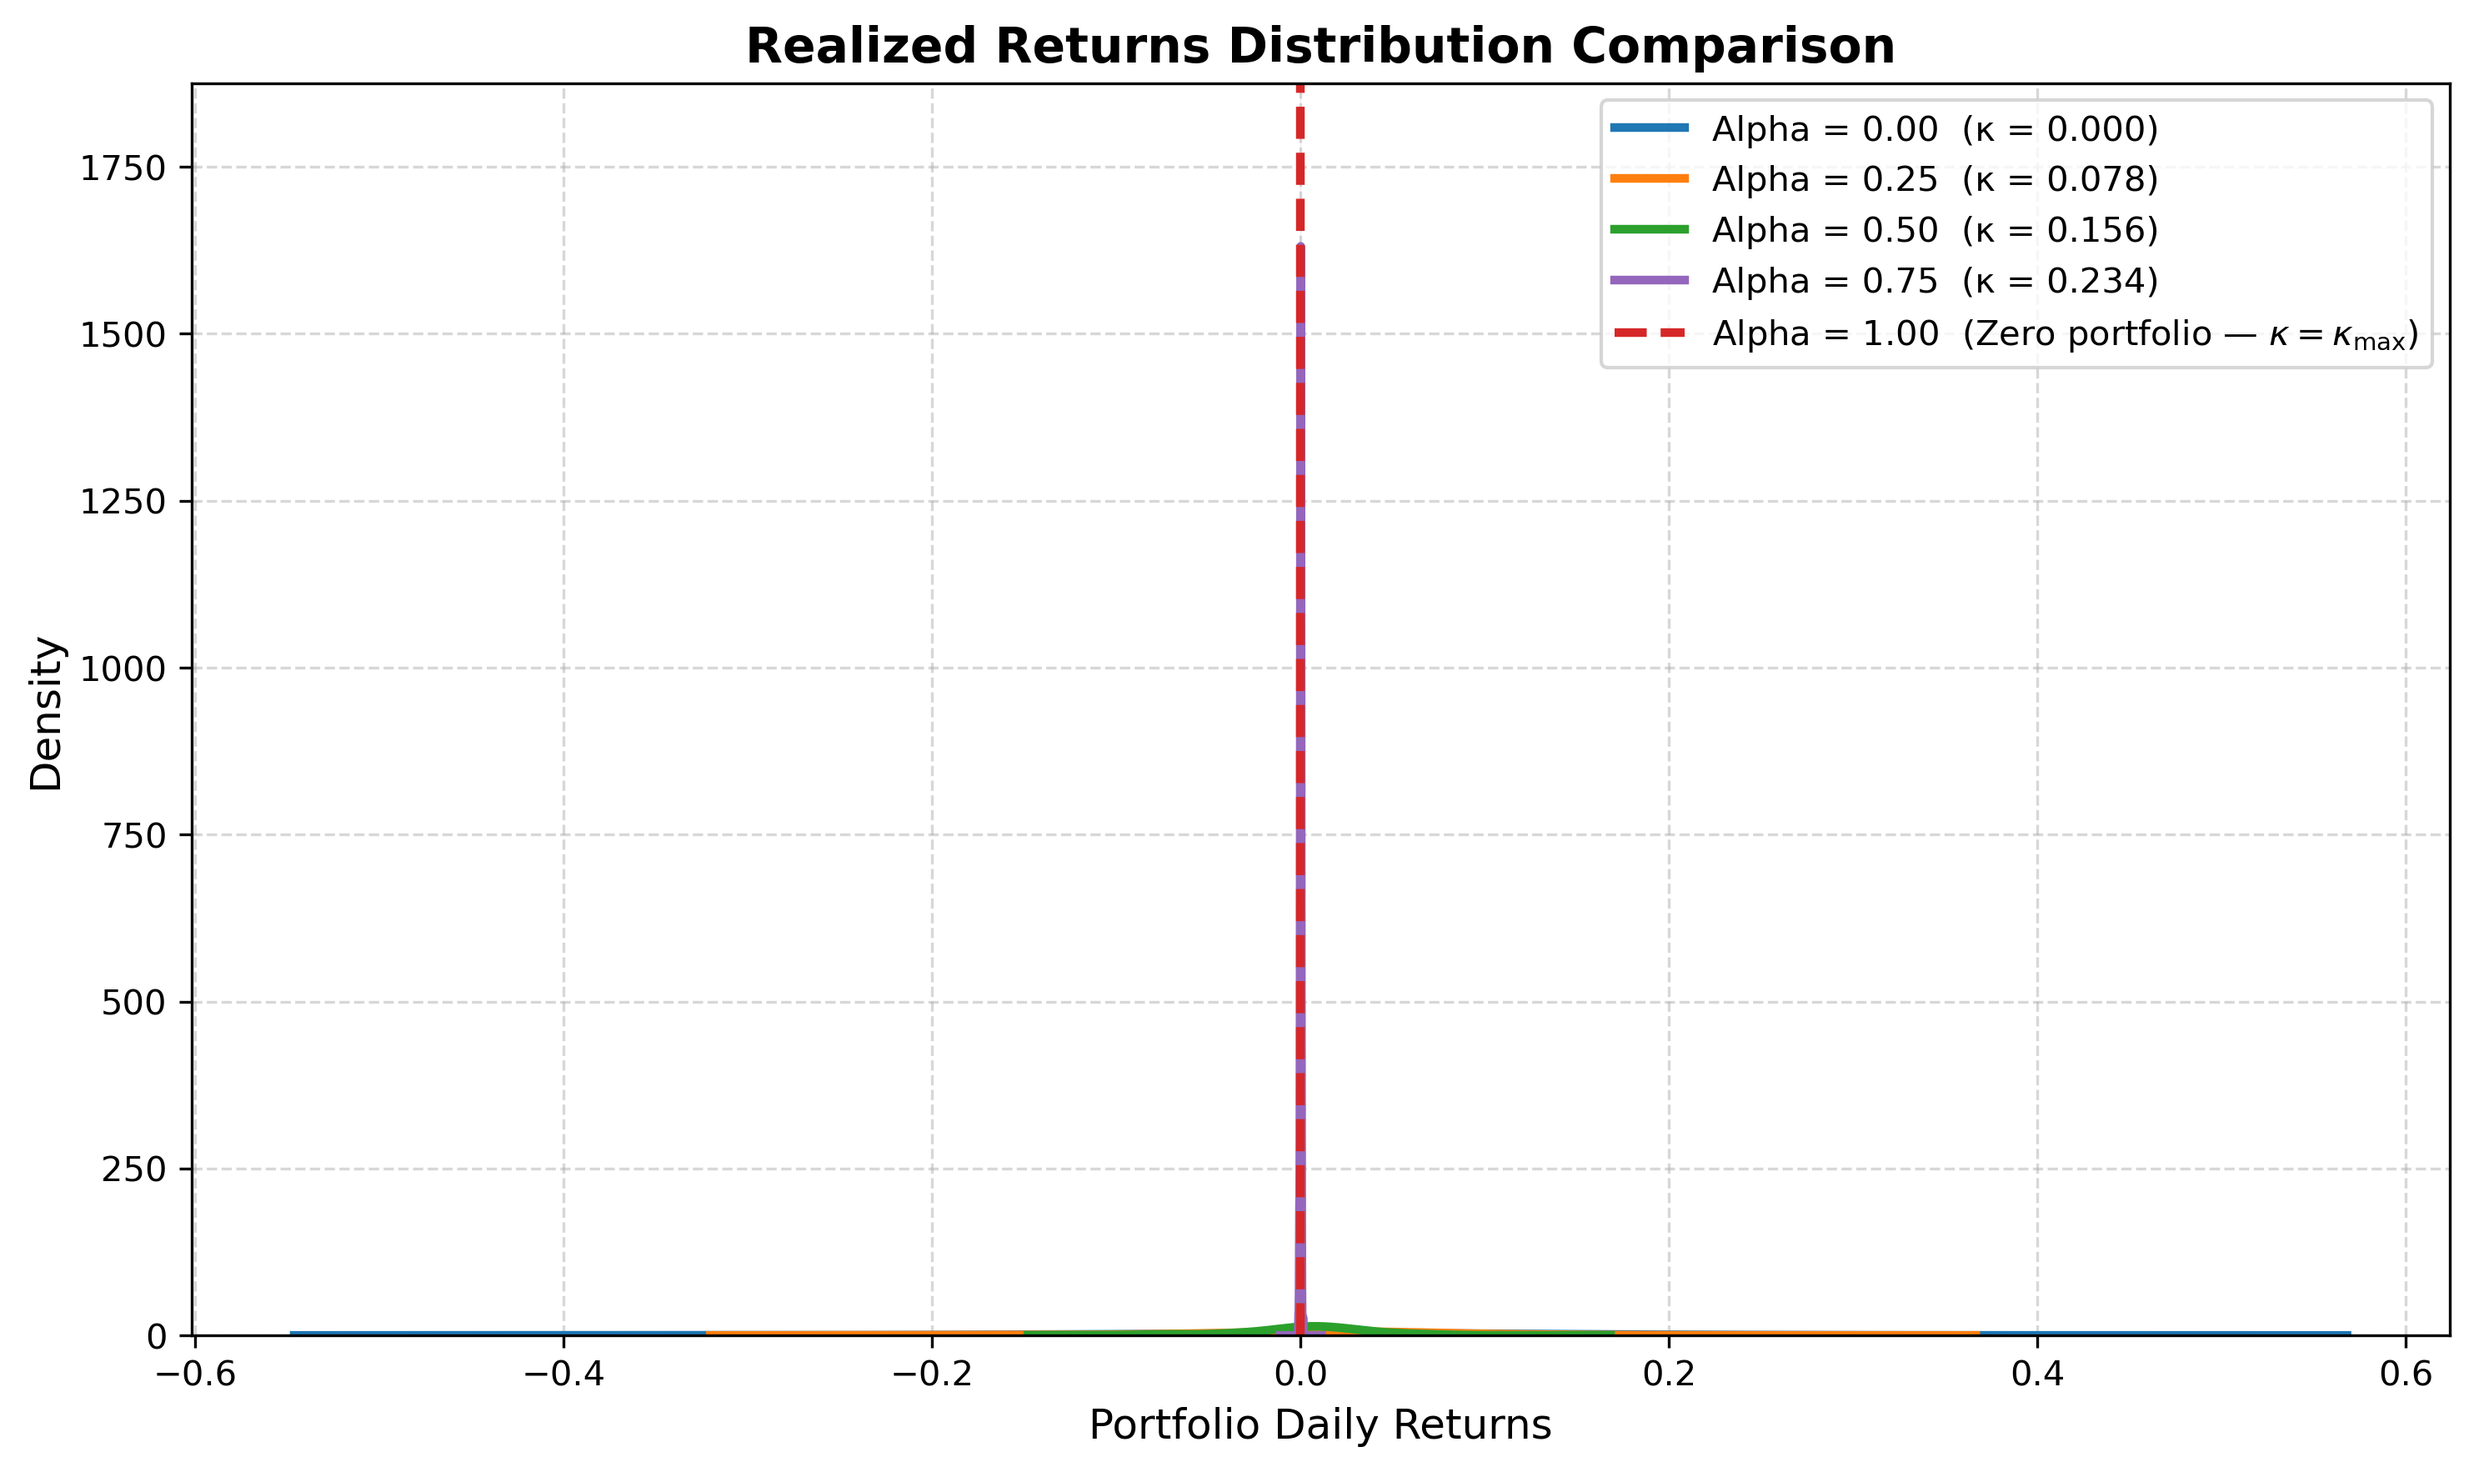
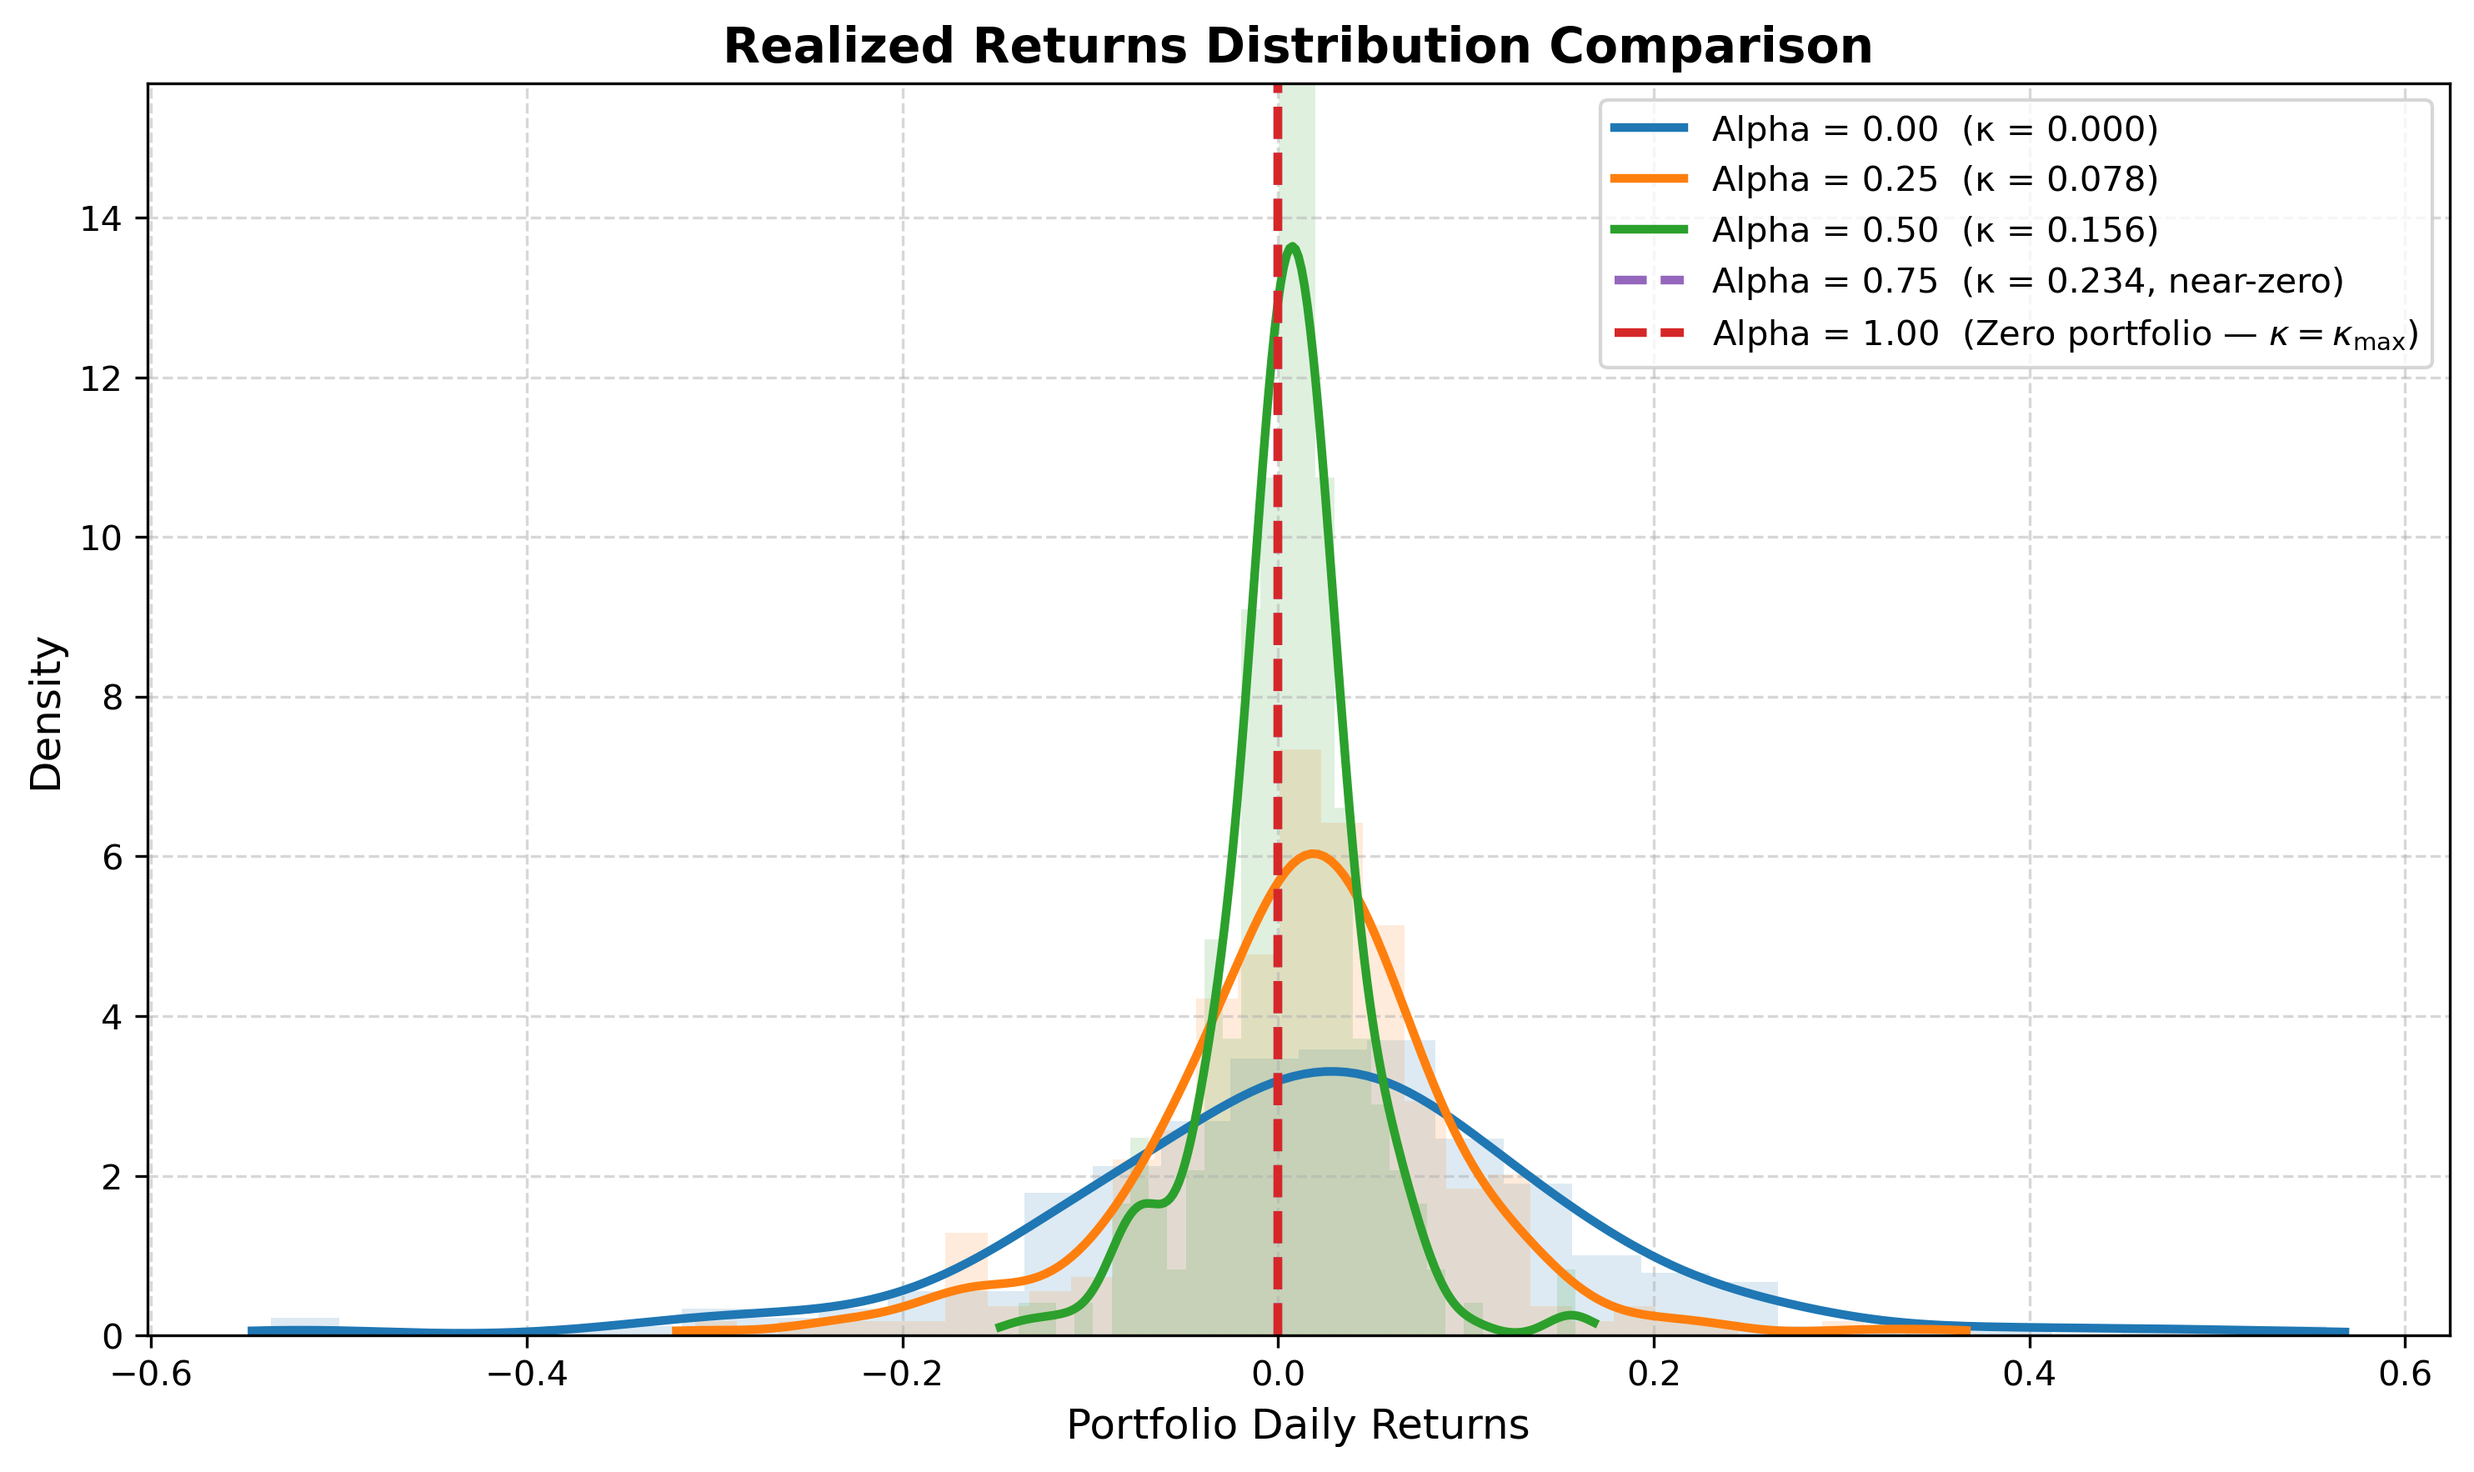
Fix: relative std threshold prevents alpha=0.75 KDE spike blowing up y-axis

diff --git a/src/plotting.py b/src/plotting.py
@@ -92,25 +92,41 @@ def plot_return_distributions(results, selected_alphas, save_path=None):
     colors = ["#1f77b4", "#ff7f0e", "#2ca02c", "#9467bd", "#d62728"]
     max_density = 1.0  # floor so y-axis is never collapsed
 
+    # Relative threshold: any portfolio whose std is less than 5 % of the
+    # reference (MVO, alpha=0) std is degenerate and shown as a vertical line.
+    # This handles the case where weights are near-zero but not exactly zero
+    # (e.g. alpha=0.75), which produces a huge KDE spike that collapses the plot.
+    ref_alpha   = selected_alphas[0]
+    ref_std     = float(np.std(results[ref_alpha]["realized_returns"])) \
+                  if ref_alpha in results else 1.0
+    degen_thr   = max(ref_std * 0.05, 1e-6)   # 5 % of MVO std
+
     for idx, alpha in enumerate(selected_alphas):
         if alpha not in results:
             continue
 
         returns = results[alpha]["realized_returns"]
-        color = colors[idx % len(colors)]
+        color   = colors[idx % len(colors)]
+        std_r   = float(np.std(returns))
 
-        if np.std(returns) < 1e-4:
-            # Zero-weight portfolio: returns are all ~0 → show as vertical line
+        if std_r < degen_thr:
+            # Near-zero or zero portfolio → vertical dashed line
+            is_exactly_zero = std_r < 1e-6
+            lbl = (
+                f"Alpha = {alpha:.2f}  (Zero portfolio — "
+                r"$\kappa = \kappa_{\max}$)"
+                if is_exactly_zero
+                else f"Alpha = {alpha:.2f}  (κ = {results[alpha]['kappa_paper']:.3f}, near-zero)"
+            )
             plt.axvline(
                 x=float(np.mean(returns)),
                 color=color,
                 linestyle="--",
-                label=f"Alpha = {alpha:.2f}  (Zero portfolio — "
-                      r"$\kappa = \kappa_{\max}$)",
+                label=lbl,
                 linewidth=2.5,
             )
         else:
-            kde = gaussian_kde(returns)
+            kde    = gaussian_kde(returns)
             x_grid = np.linspace(returns.min() - 0.01, returns.max() + 0.01, 200)
             kde_vals = kde(x_grid)
             max_density = max(max_density, float(np.max(kde_vals)))
@@ -119,8 +135,7 @@ def plot_return_distributions(results, selected_alphas, save_path=None):
                 x_grid,
                 kde_vals,
                 color=color,
-                label=(f"Alpha = {alpha:.2f}  "
-                       f"(κ = {results[alpha]['kappa_paper']:.3f})"),
+                label=f"Alpha = {alpha:.2f}  (κ = {results[alpha]['kappa_paper']:.3f})",
                 linewidth=2.5,
             )
             plt.hist(returns, bins=30, density=True, alpha=0.15, color=color)
@@ -129,7 +144,7 @@ def plot_return_distributions(results, selected_alphas, save_path=None):
               fontsize=14, fontweight="bold")
     plt.xlabel("Portfolio Daily Returns", fontsize=12)
     plt.ylabel("Density", fontsize=12)
-    plt.ylim(0.0, max_density * 1.15)   # 15 % head-room above highest KDE peak
+    plt.ylim(0.0, max_density * 1.15)
     plt.legend(fontsize=10)
     plt.grid(True, linestyle="--", alpha=0.5)
     plt.tight_layout()
